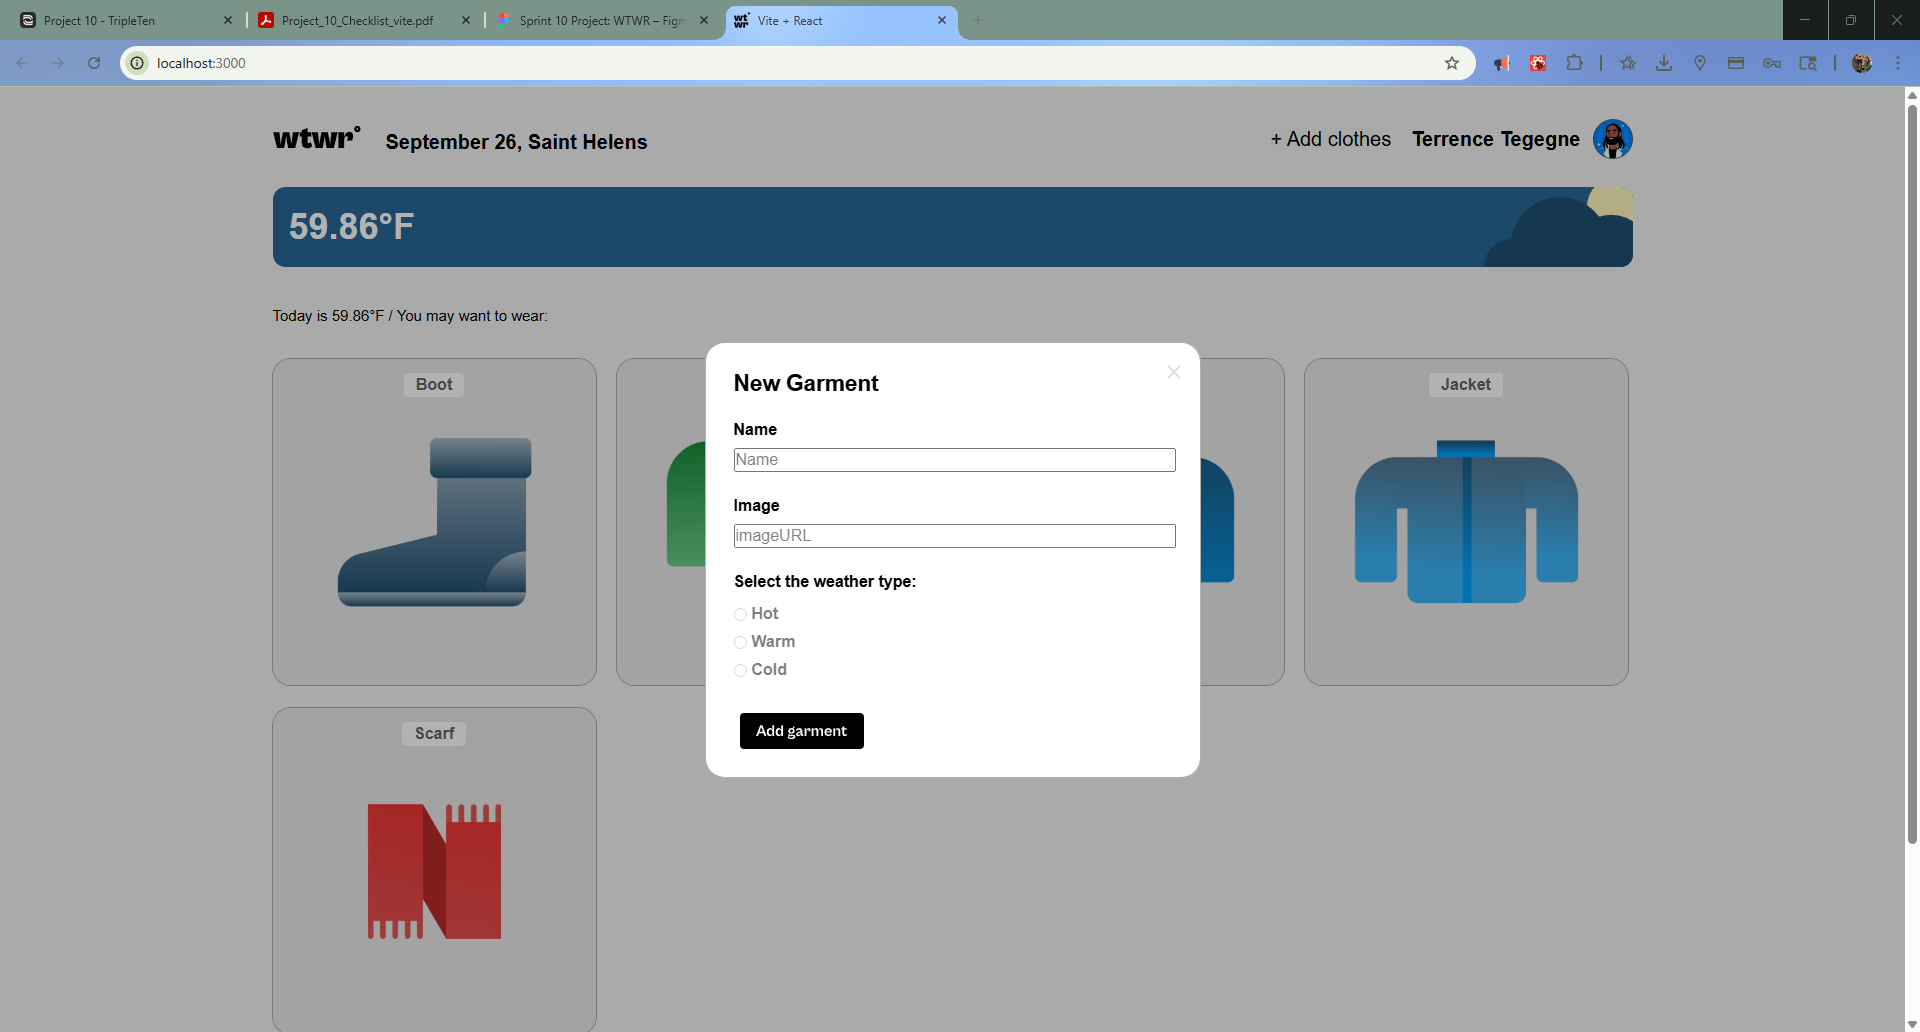
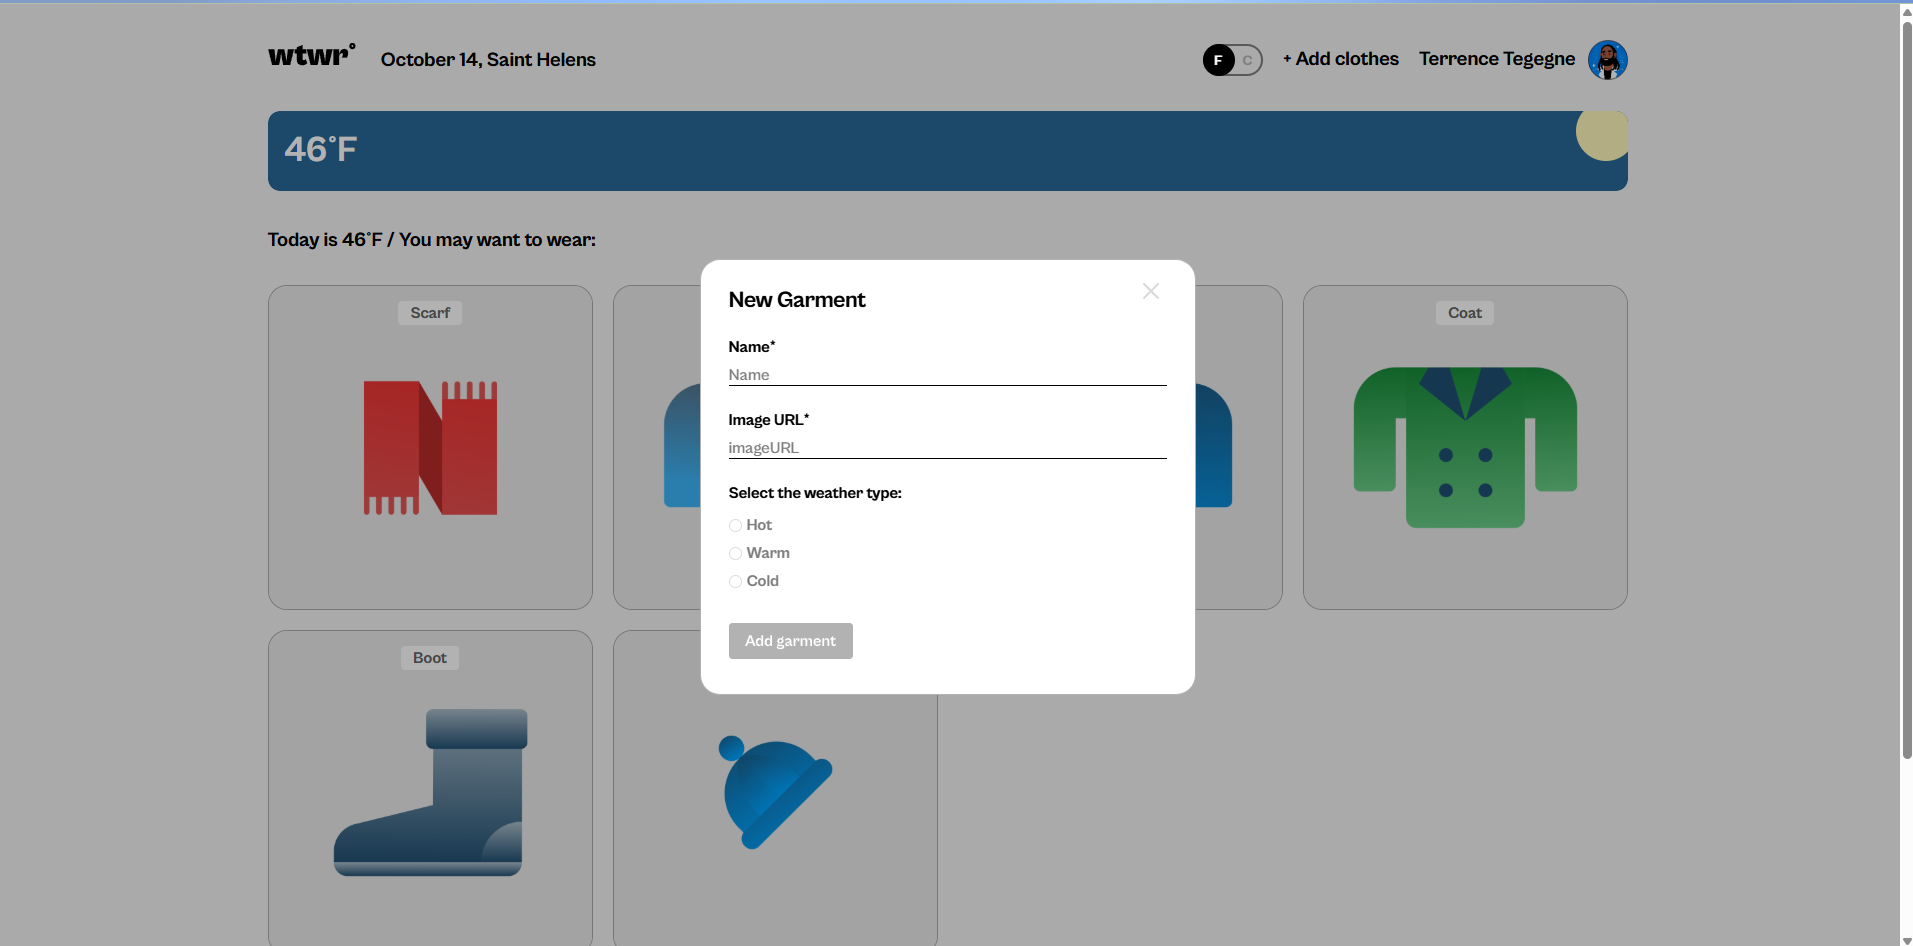
Create delete item btn/ delete confirm modal, set up API requests and update README

diff --git a/src/components/App/App.jsx b/src/components/App/App.jsx
@@ -11,7 +11,7 @@ import ItemModal from "./ItemModal";
 import { getWeatherData, processWeatherData } from "../../utils/weatherApi.js";
 import CurrentTempUnitContext from "../../Context/CurrentTempUnitContext.jsx";
 import Profile from "./Profile.jsx";
-import { getItems } from "../../utils/api.js";
+import { getItems, addItem, removeItem } from "../../utils/api.js";
 
 function App() {
   const [weatherData, setWeatherData] = useState({
@@ -44,22 +44,31 @@ function App() {
     setActiveModal("");
   };
 
-  const onAddItem = (inputValues, resetForm) => {
-    try {
-      const newItem = {
-        name: inputValues.name,
-        weather: inputValues.weatherType,
-        imageUrl: inputValues.imageURL,
-      };
-      setClothingItems((prev) => [newItem, ...prev]);
-      if (typeof resetForm === "function") {
-        resetForm();
-      }
-      setActiveModal("");
-    } catch (err) {
-      console.error("Failed to add item:", err);
-    }
+  const handleDelete = (cardId) => {
+    removeItem(cardId)
+      .then(() => {
+        setClothingItems((prev) =>
+          prev.filter((item) => item._id !== cardId && item.id !== cardId)
+        );
+      })
+      .catch((error) => console.error(error));
   };
+
+  function onAddItem(inputValues, resetForm) {
+    const newItem = {
+      name: inputValues.name,
+      weather: inputValues.weatherType,
+      imageUrl: inputValues.imageURL,
+    };
+
+    addItem(newItem, resetForm)
+      .then((createdItem) => {
+        setClothingItems(() => [createdItem, ...clothingItems]);
+        resetForm();
+        setActiveModal("");
+      })
+      .catch(console.error);
+  }
 
   useEffect(() => {
     getWeatherData(coordinates, APIkey)
@@ -75,7 +84,7 @@ function App() {
   useEffect(() => {
     getItems()
       .then((items) => {
-        setClothingItems(items);
+        setClothingItems(() => [...items].reverse());
       })
       .catch((error) => {
         console.error("Error fetching clothing items:", error);
@@ -136,6 +145,7 @@ function App() {
           activeModal={activeModal}
           card={selectedCard}
           handleCloseClick={handleCloseClick}
+          handleDelete={handleDelete}
         />
       </div>
     </CurrentTempUnitContext.Provider>

diff --git a/src/components/App/ItemModal.jsx b/src/components/App/ItemModal.jsx
@@ -1,8 +1,10 @@
 import { useState } from "react";
 import "../../blocks/ItemModal.css";
 import closeIcon from "../../images/close-white.svg";
+import DeleteConfirmModal from "./DeleteConfirmModal.jsx";
+import deleteIcon from "../../images/itemDelete.svg";
 
-function ItemModal({ activeModal, card, handleCloseClick }) {
+function ItemModal({ activeModal, card, handleCloseClick, handleDelete }) {
   const [isConfirmOpen, setIsConfirmOpen] = useState(false);
 
   return (
@@ -29,10 +31,28 @@ function ItemModal({ activeModal, card, handleCloseClick }) {
           className="item__modal__image"
         />
         <div className="item__modal__footer">
-          <h2 className="item__modal__image-title">{card.name}</h2>
-          <p className="item__modal__weather">Weather: {card.weather}</p>
+          <div className="item__modal__info">
+            <h2 className="item__modal__image-title">{card.name}</h2>
+            <p className="item__modal__weather">Weather: {card.weather}</p>
+          </div>
+          <button
+            type="button"
+            className="item__modal__delete-btn"
+            onClick={() => setIsConfirmOpen(true)}
+          >
+            <img src={deleteIcon} alt="Delete" />
+          </button>
         </div>
       </div>
+      <DeleteConfirmModal
+        isOpen={isConfirmOpen}
+        onClose={() => setIsConfirmOpen(false)}
+        onConfirm={() => {
+          handleDelete(card._id);
+          setIsConfirmOpen(false);
+          handleCloseClick();
+        }}
+      />
     </div>
   );
 }

diff --git a/src/blocks/DeleteConfirmModal.css b/src/blocks/DeleteConfirmModal.css
@@ -1,0 +1,77 @@
+.delete-confirm__overlay {
+  position: fixed;
+  top: 0;
+  right: 0;
+  bottom: 0;
+  left: 0;
+  display: flex;
+  align-items: center;
+  justify-content: center;
+  background: rgba(0, 0, 0, 0.45);
+  z-index: 2000; /* higher than item modal (1000) */
+}
+
+.delete-confirm__container {
+  display: flex;
+  flex-direction: column;
+  align-items: center;
+  gap: 40px;
+  text-align: center;
+  background: rgba(255, 255, 255, 1);
+  padding: 20px;
+  width: clamp(280px, 90vw, 420px);
+  border-radius: 20px;
+  position: relative;
+  z-index: 2001;
+}
+
+.delete-confirm__close {
+  position: absolute;
+  top: 20px;
+  right: 20px;
+  background: none;
+  border: none;
+  cursor: pointer;
+  height: 20px;
+  width: 20px;
+  color: rgba(0, 0, 0, 1);
+  opacity: 0.3;
+  transition: opacity 0.3s ease;
+}
+
+.delete-confirm__close:hover {
+  opacity: 1;
+}
+
+.delete-confirm__message {
+  margin: 28px 0 16px;
+  font-size: 20px;
+  color: rgba(0, 0, 0, 1);
+}
+
+.delete-confirm__actions {
+  display: flex;
+  flex-direction: column-reverse;
+  gap: 24px;
+  justify-content: flex-end;
+}
+
+.delete-confirm__cancel,
+.delete-confirm__confirm {
+  font-size: 20px;
+  font-weight: 700;
+  line-height: 24px;
+  padding: 8px 12px;
+  border-radius: 8px;
+  background: transparent;
+  border: none;
+  cursor: pointer;
+}
+
+.delete-confirm__cancel {
+  color: rgba(0, 0, 0, 1);
+}
+
+.delete-confirm__confirm {
+  color: rgba(255, 77, 0, 1);
+}

diff --git a/src/components/App/DeleteConfirmModal.jsx b/src/components/App/DeleteConfirmModal.jsx
@@ -1,0 +1,50 @@
+import React from "react";
+import "../../blocks/DeleteConfirmModal.css";
+import closeIcon from "../../images/close-gray.svg";
+
+function DeleteConfirmModal({ isOpen, onClose, onConfirm }) {
+  if (!isOpen) return null;
+
+  const handleConfirm = () => {
+    if (typeof onConfirm === "function") onConfirm();
+    if (typeof onClose === "function") onClose();
+  };
+
+  return (
+    <div className="delete-confirm__overlay delete-confirm__overlay_opened">
+      <div className="delete-confirm__container">
+        <button
+          type="button"
+          className="delete-confirm__close"
+          onClick={onClose}
+          aria-label="Close"
+        >
+          <img src={closeIcon} alt="Close" />
+        </button>
+        <p className="delete-confirm__message">
+          Are you sure you want to delete this item? This action is
+          irreversible.
+        </p>
+
+        <div className="delete-confirm__actions">
+          <button
+            type="button"
+            className="delete-confirm__cancel"
+            onClick={onClose}
+          >
+            Cancel
+          </button>
+          <button
+            type="button"
+            className="delete-confirm__confirm"
+            onClick={handleConfirm}
+          >
+            Yes, delete item
+          </button>
+        </div>
+      </div>
+    </div>
+  );
+}
+
+export default DeleteConfirmModal;

diff --git a/src/blocks/ItemModal.css b/src/blocks/ItemModal.css
@@ -36,11 +36,20 @@
 
 .item__modal__footer {
   position: relative;
+  display: flex;
+  justify-content: space-between;
+  align-items: center;
   padding: 20px 32px 32px;
   font-size: 20px;
   font-weight: 700;
   line-height: 24px;
   color: rgba(0, 0, 0, 1);
+}
+
+.item__modal__footer__info {
+  display: flex;
+  flex-direction: column;
+  align-items: flex-start;
 }
 
 .item__modal__image-title {
@@ -50,6 +59,14 @@
 
 .item__modal__weather {
   margin: 0;
+}
+
+.item__modal__delete-btn {
+  background: none;
+  border: none;
+  color: rgba(255, 77, 0, 1);
+  cursor: pointer;
+  align-self: flex-start;
 }
 
 .item__modal__close {

diff --git a/src/utils/api.js b/src/utils/api.js
@@ -13,3 +13,22 @@ const handleServerResponse = (response) => {
 export const getItems = () => {
   return fetch(`${baseUrl}/items`, { headers }).then(handleServerResponse);
 };
+
+export const addItem = ({ name, imageUrl, weather }) => {
+  return fetch(`${baseUrl}/items`, {
+    method: "POST",
+    headers,
+    body: JSON.stringify({
+      name,
+      imageUrl,
+      weather,
+    }),
+  }).then(handleServerResponse);
+};
+
+export const removeItem = (itemID) => {
+  return fetch(`${baseUrl}/items/${itemID}`, {
+    method: "DELETE",
+    headers,
+  }).then(handleServerResponse);
+};

diff --git a/src/blocks/Header.css b/src/blocks/Header.css
@@ -25,6 +25,7 @@
   border: none;
   background: transparent;
   font-weight: 700;
+  transition: opacity 0.3s ease;
 }
 
 .header__add-clothes-btn:hover {

diff --git a/src/blocks/ModalWithForm.css b/src/blocks/ModalWithForm.css
@@ -61,6 +61,7 @@
   background: transparent;
   cursor: pointer;
   opacity: 0.5;
+  transition: opacity 0.3s ease;
 }
 
 .modal__close:hover {

diff --git a/src/blocks/ClothesSection.css b/src/blocks/ClothesSection.css
@@ -26,6 +26,7 @@
   border: none;
   cursor: pointer;
   padding: 0;
+  transition: opacity 0.3s ease;
 }
 
 .clothes-section__add-btn:hover {

diff --git a/README.md b/README.md
@@ -2,13 +2,15 @@
 
 ## About the project
 
-The idea of the application is pretty simple - we make a call to an API, which then responds with the daily weather forecast. We collect the weather data, process it, and then based on the forecast, we recommend suitable clothing to the user using React + JavaScript. Designed with dynamic weather cards based on data gathered from an API. More features to come including "likes", switching temperature measurement units, creating new cards and a responsive design.
+The idea of the application is pretty simple and responsive - we make a call to an API, which then responds with the daily weather forecast, switches temperature measurement units using a toggle switch. We collect the weather data, process it, and then based on the forecast, we recommend suitable clothing to the user using React + JavaScript. Also have the ability to add or remove items from the list or use personalized images with a profile page. Designed with dynamic weather cards based on data gathered from an API. More features to come including "likes".
 
 ## Links
 
 - [Figma Design](https://www.figma.com/file/DTojSwldenF9UPKQZd6RRb/Sprint-10%3A-WTWR)
 - [Github](https://JC-codes.github.io/se_project_react)
 
-<img width="1920" height="1032" alt="itemModal" src="https://github.com/user-attachments/assets/afb70c84-7c65-4c21-9307-c79f9d03db5f" />
-<img width="1920" height="1032" alt="formModal" src="https://github.com/user-attachments/assets/987dc47e-aeca-4ad5-bcdb-25b090fcb011" />
-<img width="1920" height="1032" alt="mainScreen" src="https://github.com/user-attachments/assets/b6e6cec9-d591-4e92-8385-51b2fee21675" />
+![alt text](public/mainScreen.png)
+![alt text](public/itemModal.png)
+![alt text](public/formModal.png)
+![alt text](public/mobile.png)
+![alt text](public/profile.png)
